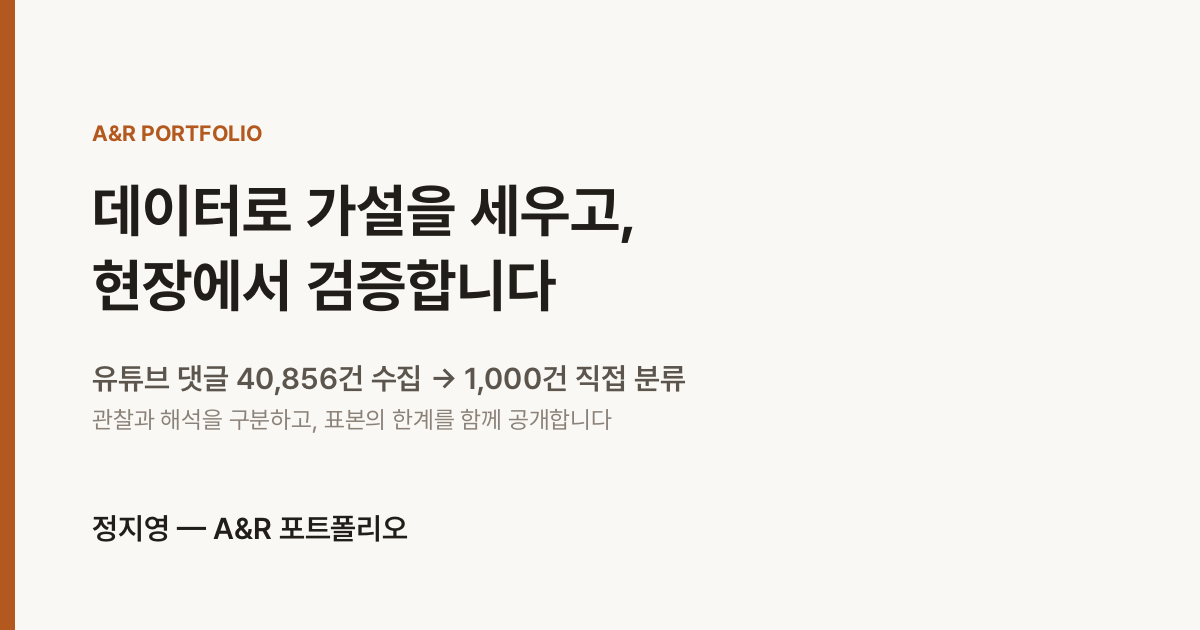
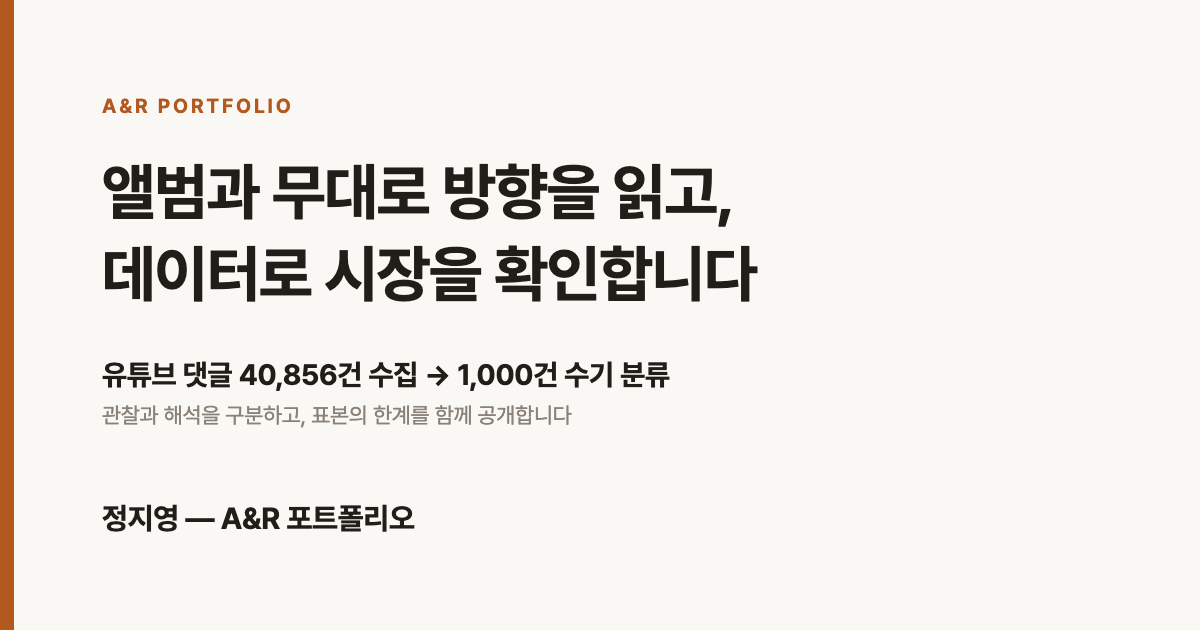
공유 미리보기 현행화, 앨범 카드 판본 표시, 음율 정규 2집 정정
- OG 카드(public/og.png)를 현재 홈 히어로 문안으로 다시 그림
- og:image 경로를 OG_IMAGE 상수로 일원화, ?v=2로 SNS 캐시 무효화
- 사이트·About 메타 설명을 현재 본문 문안에 맞춤
- 홈 각주 링크에서 화살표 제거
- 앨범 카드 형태 라벨에 기획 판본 표기(정규 1집 · v2), 상단 액센트 바를
  라벨 폭에 맞춰 늘림
- 음율 정규 3집 → 정규 2집 (홈 카드·음율 페이지·네비)

Changed region(s): [[0.0617, 0.1508, 0.6475, 0.5127], [0.0617, 0.573, 0.5858, 0.6937], [0.0617, 0.7841, 0.3392, 0.8746]]

diff --git a/src/app/page.tsx b/src/app/page.tsx
@@ -2,7 +2,7 @@ import type { CSSProperties } from 'react';
 import type { Metadata } from 'next';
 import Link from 'next/link';
 import CIChart from '@/components/CIChart';
-import { SITE } from '@/data/site';
+import { OG_IMAGE, SITE } from '@/data/site';
 import { ALBUM_COLOR as TOUCHED_ACCENT } from '@/app/artists/touched/data';
 
 export const metadata: Metadata = {
@@ -11,7 +11,7 @@ export const metadata: Metadata = {
   openGraph: {
     title: SITE.title,
     description: SITE.description,
-    images: [{ url: '/og.png', width: 1200, height: 630 }],
+    images: OG_IMAGE,
   },
 };
 
@@ -21,6 +21,8 @@ export const metadata: Metadata = {
 // hook은 카드용 한 줄 카피. 터치드는 앨범 헤더 문안과 동일하고,
 // 신인류·음율은 지시에 따라 카드 전용으로 정한 문안이라 각 페이지의
 // concept-line과 일치하지 않는다.
+// ver는 기획안 판본 — 역광만 개정본(v2, 초판은 /artists/touched/v1/)이고
+// 나머지는 초판이다.
 const ALBUM_FEED = [
   {
     artist: '터치드',
@@ -28,6 +30,7 @@ const ALBUM_FEED = [
     album: '역광',
     href: '/artists/touched/',
     accent: TOUCHED_ACCENT, // 화상 엠버 — touched/data.ts
+    ver: 'v2',
     hook: '빛을 쫓는 동안엔 어둠을 볼 수 없었다',
   },
   {
@@ -36,14 +39,16 @@ const ALBUM_FEED = [
     album: '구름을 빌려줘',
     href: '/artists/sinillyu/',
     accent: '#1f5fa8', // 코발트 (대비 6.07:1, AA+)
+    ver: 'v1',
     hook: '지금 당장 주지 못해도 괜찮아',
   },
   {
     artist: '음율',
-    form: '정규 3집',
+    form: '정규 2집',
     album: '매순간 그냥 그러고 싶었어',
     href: '/artists/eumyul/',
     accent: '#2f5d4a', // 포레스트 (대비 7.11:1, AAA)
+    ver: 'v1',
     hook: '나에게 정직한 선택을 내려왔다는 것',
   },
 ];
@@ -70,7 +75,7 @@ export default function Home() {
           <p className="footnote" style={{ marginTop: 12 }}>
             AI 분류는 사전 등록한 기준으로 검증한 뒤, 미달로 탈락시켰습니다.{' '}
             <Link className="more-link" href="/method/#ai-validation">
-              검증 과정 보기 →
+              검증 과정 보기
             </Link>
           </p>
         </div>
@@ -94,8 +99,14 @@ export default function Home() {
                   className="album-art"
                   style={{ '--album': a.accent } as CSSProperties}
                 >
-                  <span className="rule" />
-                  <span className="form">{a.form}</span>
+                  {/* 액센트 바 + 형태 라벨. 판본은 라벨 뒤에 가운뎃점으로
+                      잇고 조판은 라벨과 동일하게 둔다. */}
+                  <div className="stamp">
+                    <span className="rule" />
+                    <span className="form">
+                      {a.form} · {a.ver}
+                    </span>
+                  </div>
                   {/* 여백을 채우는 재생 기호. */}
                   <svg
                     className="play"

diff --git a/src/app/artists/eumyul/page.tsx b/src/app/artists/eumyul/page.tsx
@@ -1,17 +1,17 @@
 import type { Metadata } from 'next';
 import Link from 'next/link';
 import report from '@/data/aggregate_report.json';
-import { SITE } from '@/data/site';
+import { OG_IMAGE, SITE } from '@/data/site';
 
 export const metadata: Metadata = {
-  title: '음율 — 정규 3집 《매순간 그냥 그러고 싶었어》 기획',
+  title: '음율 — 정규 2집 《매순간 그냥 그러고 싶었어》 기획',
   description:
     '유튜브 댓글 표본 200건 분석에 근거한 음율 다음 정규 앨범 기획.',
   openGraph: {
-    title: '음율 — 정규 3집 《매순간 그냥 그러고 싶었어》 기획',
+    title: '음율 — 정규 2집 《매순간 그냥 그러고 싶었어》 기획',
     description:
       '유튜브 댓글 표본 200건 분석에 근거한 음율 다음 정규 앨범 기획.',
-    images: [{ url: '/og.png', width: 1200, height: 630 }],
+    images: OG_IMAGE,
   },
 };
 
@@ -59,7 +59,7 @@ export default function Eumyul() {
             <div className="verdict-row">
               <span className="vk">다음 수</span>
               <span>
-                설명을 걷어내고 선택을 통과하는 정규 3집으로 가사 밀도 회복.
+                설명을 걷어내고 선택을 통과하는 정규 2집으로 가사 밀도 회복.
               </span>
             </div>
           </div>
@@ -72,7 +72,7 @@ export default function Eumyul() {
       <section className="section" style={{ paddingTop: 0 }}>
         <div className="container">
           <p className="section-num">① 앨범 기획</p>
-          <h2>정규 3집 《매순간 그냥 그러고 싶었어》</h2>
+          <h2>정규 2집 《매순간 그냥 그러고 싶었어》</h2>
           <p className="concept-line">
             나에게 정직해지는 선택을 매순간 내려왔다는 것을, 설명하지 않고
             그냥 그러고 싶었다는 말 한마디로 압축하는 앨범.

diff --git a/src/data/site.ts b/src/data/site.ts
@@ -2,7 +2,7 @@
 export const SITE = {
   title: '정지영 — A&R 포트폴리오',
   description:
-    '데이터로 가설을 세우고, 현장에서 검증하는 A&R. 유튜브 댓글 데이터 기반 팬덤 분석 포트폴리오.',
+    '앨범과 무대로 방향을 읽고, 데이터로 시장을 확인하는 A&R. 유튜브 댓글 4만여 건에서 관찰과 해석을 구분하고, 표본의 한계를 함께 공개합니다.',
   // 배포 주소. repo를 dulcis-hortus.github.io로 바꾸거나 커스텀 도메인 연결 시 교체.
   url: 'https://dulcis-hortus.github.io/AnR_Portfolio',
   email: 'jiyeong.0807.kr@gmail.com',
@@ -14,6 +14,14 @@ export const SITE = {
     '본 사이트의 분석은 공개 데이터에 기반한 비공식 분석이며, 아티스트·소속사와 무관합니다.',
 };
 
+// 공유 미리보기 이미지. 카카오·슬랙·X는 URL 단위로 캐시하므로,
+// og.png를 다시 그릴 때는 v 값을 올려 캐시를 무효화한다.
+// 카드 원본은 내부 문서 폴더의 og-card.html (미배포) — Chrome 헤드리스로
+// 1200×630 스크린샷을 떠서 public/og.png를 덮어쓴다.
+export const OG_IMAGE = [
+  { url: '/og.png?v=2', width: 1200, height: 630 },
+];
+
 // 네비 드롭다운은 산출물명(앨범 기획안) 기준으로 표기 (결정로그 v3.1)
 export const ARTISTS = [
   { slug: 'touched', name: '터치드', album: '터치드 — 정규 1집 《역광》' },
@@ -21,6 +29,6 @@ export const ARTISTS = [
   {
     slug: 'eumyul',
     name: '음율',
-    album: '음율 — 정규 3집 《매순간 그냥 그러고 싶었어》',
+    album: '음율 — 정규 2집 《매순간 그냥 그러고 싶었어》',
   },
 ] as const;

diff --git a/src/app/about/page.tsx b/src/app/about/page.tsx
@@ -1,15 +1,15 @@
 import type { Metadata } from 'next';
-import { SITE } from '@/data/site';
+import { OG_IMAGE, SITE } from '@/data/site';
 
 export const metadata: Metadata = {
   title: 'About',
   description:
-    '프론트엔드 개발자 5년에서 데이터·현장 검증 A&R로. 전환 스토리와 경력.',
+    '뮤지션 동행자에서 A&R로. 아티스트를 시장과 연결하는 일에 대한 관점과 이력.',
   openGraph: {
     title: 'About — 정지영',
     description:
-      '프론트엔드 개발자 5년에서 데이터·현장 검증 A&R로. 전환 스토리와 경력.',
-    images: [{ url: '/og.png', width: 1200, height: 630 }],
+      '뮤지션 동행자에서 A&R로. 아티스트를 시장과 연결하는 일에 대한 관점과 이력.',
+    images: OG_IMAGE,
   },
 };
 

diff --git a/src/app/artists/touched/v1/page.tsx b/src/app/artists/touched/v1/page.tsx
@@ -2,7 +2,7 @@ import type { Metadata } from 'next';
 import type { CSSProperties } from 'react';
 import Link from 'next/link';
 import report from '@/data/aggregate_report.json';
-import { SITE } from '@/data/site';
+import { OG_IMAGE, SITE } from '@/data/site';
 import AlbumHeader from '@/components/album/AlbumHeader';
 import '@/styles/album-system.css';
 import { ALBUM_COLOR, STRIP_FULL, STRIP_SHORT } from '../data';
@@ -15,7 +15,7 @@ export const metadata: Metadata = {
     title: '터치드 — 기획 이력 v1',
     description:
       '터치드 《역광》 기획 초판(2026-06)의 보존본. 정본은 터치드 — 《역광》 본편.',
-    images: [{ url: '/og.png', width: 1200, height: 630 }],
+    images: OG_IMAGE,
   },
 };
 

diff --git a/src/app/globals.css b/src/app/globals.css
@@ -447,8 +447,16 @@ a {
     box-shadow 0.25s ease;
 }
 
+/* 액센트 바와 형태 라벨은 한 덩어리 — 내용 폭으로 줄어들어야 바 길이가
+   라벨(판본 표시 포함)에 맞는다. */
+.album-art .stamp {
+  align-self: flex-start;
+  display: flex;
+  flex-direction: column;
+}
+
 .album-art .rule {
-  width: 34px;
+  width: 100%;
   height: 3px;
   margin-bottom: 12px;
   border-radius: 2px;
@@ -526,8 +534,9 @@ a {
   box-shadow: 0 10px 26px -14px rgba(26, 26, 26, 0.24);
 }
 
+/* 호버 시 라벨 폭을 조금 넘겨 늘어난다. */
 .album-card:hover .rule {
-  width: 56px;
+  width: calc(100% + 18px);
 }
 
 .album-card:focus-visible .album-art {

diff --git a/src/app/artists/touched/page.tsx b/src/app/artists/touched/page.tsx
@@ -6,6 +6,7 @@ import AlbumSection from '@/components/album/AlbumSection';
 import Chip from '@/components/album/Chip';
 import SpecMatrix from '@/components/album/SpecMatrix';
 import '@/styles/album-system.css';
+import { OG_IMAGE } from '@/data/site';
 import {
   ALBUM_COLOR,
   DEEP_LINKS,
@@ -28,7 +29,7 @@ export const metadata: Metadata = {
     title: '터치드 — 정규 1집 《역광》',
     description:
       '터치드 정규 1집 가상 기획 《역광》(Contre-jour). 유입 전수 분석에 근거한 앨범 설계 — 비공식 가상 프로젝트.',
-    images: [{ url: '/og.png', width: 1200, height: 630 }],
+    images: OG_IMAGE,
   },
 };
 

diff --git a/src/app/artists/sinillyu/page.tsx b/src/app/artists/sinillyu/page.tsx
@@ -1,7 +1,7 @@
 import type { Metadata } from 'next';
 import Link from 'next/link';
 import report from '@/data/aggregate_report.json';
-import { SITE } from '@/data/site';
+import { OG_IMAGE, SITE } from '@/data/site';
 
 export const metadata: Metadata = {
   title: '신인류 — EP 《구름을 빌려줘》 기획',
@@ -11,7 +11,7 @@ export const metadata: Metadata = {
     title: '신인류 — EP 《구름을 빌려줘》 기획',
     description:
       '유튜브 댓글 표본 200건 분석과 공연 현장 관찰에 근거한 신인류 다음 앨범 기획.',
-    images: [{ url: '/og.png', width: 1200, height: 630 }],
+    images: OG_IMAGE,
   },
 };
 

diff --git a/src/app/artists/touched/log/page.tsx b/src/app/artists/touched/log/page.tsx
@@ -4,6 +4,7 @@ import AlbumHeader from '@/components/album/AlbumHeader';
 import Chip from '@/components/album/Chip';
 import '@/styles/album-system.css';
 import { ALBUM_COLOR, STRIP_FULL, STRIP_SHORT } from '../data';
+import { OG_IMAGE } from '@/data/site';
 
 export const metadata: Metadata = {
   title: '터치드 — 관찰 기록',
@@ -13,7 +14,7 @@ export const metadata: Metadata = {
     title: '터치드 — 관찰 기록',
     description:
       '터치드 공연 현장 관찰 로그. 데이터가 닿지 못하는 것을 기록한다.',
-    images: [{ url: '/og.png', width: 1200, height: 630 }],
+    images: OG_IMAGE,
   },
 };
 

diff --git a/src/app/method/page.tsx b/src/app/method/page.tsx
@@ -1,6 +1,6 @@
 import type { Metadata } from 'next';
 import Link from 'next/link';
-import { SITE } from '@/data/site';
+import { OG_IMAGE, SITE } from '@/data/site';
 
 export const metadata: Metadata = {
   title: '분석 방법',
@@ -10,7 +10,7 @@ export const metadata: Metadata = {
     title: '분석 방법 — 정지영',
     description:
       '수집·표본 설계·라벨링 기준·AI 검증 결과까지 — 팬 댓글 분석의 절차와 한계 전면 공개.',
-    images: [{ url: '/og.png', width: 1200, height: 630 }],
+    images: OG_IMAGE,
   },
 };
 

diff --git a/src/app/layout.tsx b/src/app/layout.tsx
@@ -1,7 +1,7 @@
 import type { Metadata } from 'next';
 import Nav from '@/components/Nav';
 import Footer from '@/components/Footer';
-import { SITE } from '@/data/site';
+import { OG_IMAGE, SITE } from '@/data/site';
 import './globals.css';
 
 export const metadata: Metadata = {
@@ -17,7 +17,7 @@ export const metadata: Metadata = {
     title: SITE.title,
     description: SITE.description,
     locale: 'ko_KR',
-    images: [{ url: '/og.png', width: 1200, height: 630 }],
+    images: OG_IMAGE,
   },
   twitter: {
     card: 'summary_large_image',
